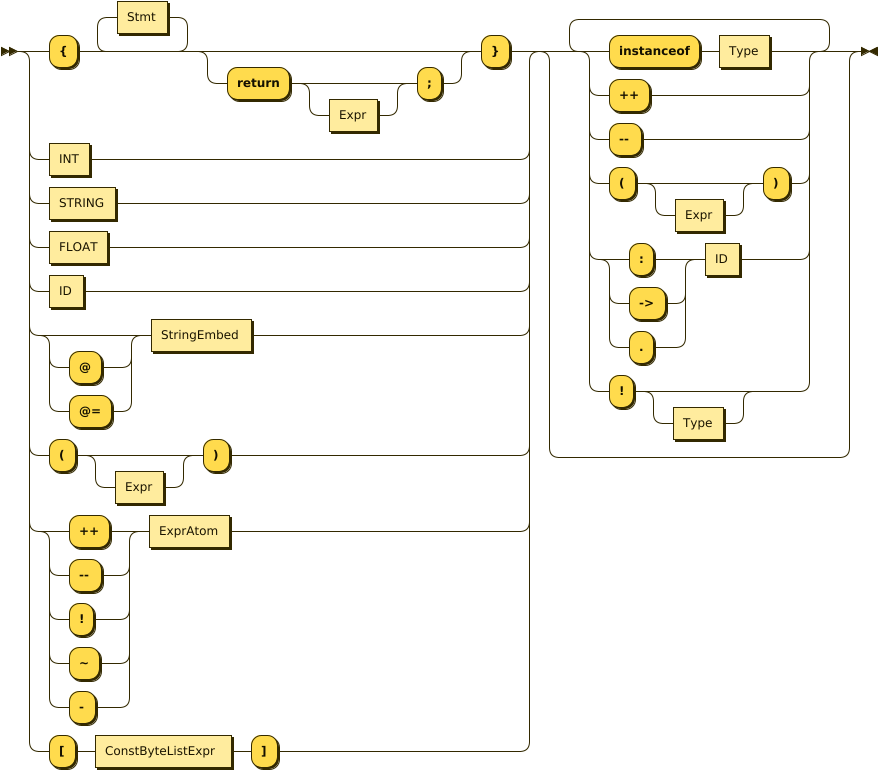
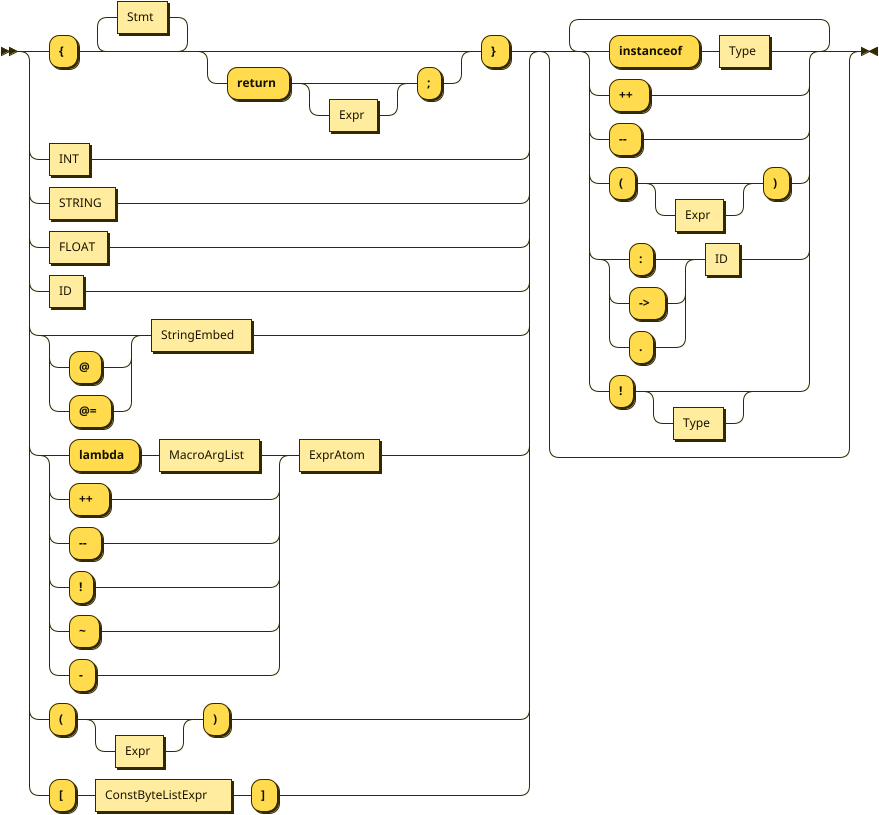
RAL: Clean up some lambda stuff, in particular parsing is now less weird

diff --git a/ral/src/main/java/rals/hcm/HCMStorage.java b/ral/src/main/java/rals/hcm/HCMStorage.java
@@ -49,7 +49,10 @@ public class HCMStorage {
 			HCMIntent hi = hoverIntents.get(id);
 			if (hi != null) {
 				Token former = backwardsTokenLink.get(tkn);
-				return hi.retrieve(former, tp, this).get(id.text);
+				Map<String, HoverData> map = hi.retrieve(former, tp, this);
+				if (map == null)
+					return null;
+				return map.get(id.text);
 			}
 			return null;
 		} else {
@@ -141,8 +144,11 @@ public class HCMStorage {
 			return intentSet.iterator().next().retrieve(refToken, spu, this);
 		// alright, accumulate
 		HashMap<String, HoverData> accumulated = new HashMap<>();
-		for (HCMIntent hi : intentSet)
-			accumulated.putAll(hi.retrieve(refToken, spu, this));
+		for (HCMIntent hi : intentSet) {
+			Map<String, HoverData> possible = hi.retrieve(refToken, spu, this);
+			if (possible != null)
+				accumulated.putAll(possible);
+		}
 		return accumulated;
 	}
 

diff --git a/ral/src/main/java/rals/tooling/LanguageServer.java b/ral/src/main/java/rals/tooling/LanguageServer.java
@@ -8,6 +8,8 @@ package rals.tooling;
 
 import java.io.File;
 import java.io.IOException;
+import java.io.PrintWriter;
+import java.io.StringWriter;
 import java.util.HashMap;
 import java.util.HashSet;
 import java.util.LinkedList;
@@ -198,7 +200,9 @@ public class LanguageServer implements ILSPCore {
 							hoverText = hd.text;
 					}
 				} catch (Exception ex) {
-					hoverText = ex.toString();
+					StringWriter sw = new StringWriter();
+					ex.printStackTrace(new PrintWriter(sw));
+					hoverText = sw.toString();
 				}
 				// Rest can be done here
 				if (hoverText != null) {

diff --git a/ral/src/main/java/rals/parser/ParserExpr.java b/ral/src/main/java/rals/parser/ParserExpr.java
@@ -257,7 +257,10 @@ public class ParserExpr {
 			return new RALStmtExpr(stmt, ret);
 		} else if (tkn.isKeyword("lambda")) {
 			MacroArg[] args = Parser.parseArgList(ifc, false);
-			RALExprUR expr = parseExpr(ifc, true);
+			// only parse a full atom, otherwise args after the lambda get eaten
+			RALExprUR expr = parseExprFullAtomOrNull(ifc);
+			if (expr == null)
+				throw new RuntimeException("lambda at " + tkn.lineNumber + " has no expression");
 			SrcRange range = tkn.extent.expand(lx.genLN());
 			return new RALLambda(range, args, expr);
 		} else if (tkn.isKeyword("(")) {

diff --git a/ral/src/main/java/rals/expr/RALCall.java b/ral/src/main/java/rals/expr/RALCall.java
@@ -43,7 +43,7 @@ public class RALCall implements RALExprUR {
 	public static RALExprSlice makeResolved(RALExprSlice base, RALExprSlice paramR, ScopeContext context) {
 		RALCallable rc = base.getCallable(0);
 		if (rc == null)
-			throw new RuntimeException("Unable to actually get RALCallable! Could be out of scope: " + base);
+			throw new RuntimeException("Unable to actually get RALCallable from " + base + ". You are probably trying to use a lambda in an unsupported manner (i.e. returning it from a macro, casting it via 'any').");
 		return rc.instance(paramR, context);
 	}
 }

diff --git a/ral/src/main/java/rals/hcm/ActualHCMRecorder.java b/ral/src/main/java/rals/hcm/ActualHCMRecorder.java
@@ -84,6 +84,9 @@ public class ActualHCMRecorder implements IHCMRecorder {
 
 	@Override
 	public void addCompletionRelIntentToNextToken(HCMIntent intent, boolean autoHover, RALExprUR... params) {
+		// This causes weird issues elsewhere, disallow it
+		if (intent == null)
+			throw new NullPointerException("Completion intent should never be null");
 		// always do this, just in case.
 		if (autoHover) {
 			autoHoverHolding = intent;

diff --git a/ral/src/main/java/rals/hcm/HCMIntent.java b/ral/src/main/java/rals/hcm/HCMIntent.java
@@ -27,7 +27,7 @@ public abstract class HCMIntent {
 	}
 
 	/**
-	 * Retrieves a map.
+	 * Retrieves a map, or null if some kind of error occurs.
 	 * DO NOT WRITE TO THIS MAP.
 	 * The token given is the key in intentsOnNextToken, AND MAY BE NULL.
 	 * The position given is the actual position of the cursor.

diff --git a/ral/src/main/java/rals/code/Macro.java b/ral/src/main/java/rals/code/Macro.java
@@ -236,7 +236,7 @@ public class Macro implements RALCallable.Global {
 
 		@Override
 		public String toString() {
-			return "macro arg copier of " + macroName;
+			return "macro wrapper of " + macroName;
 		}
 	}
 }

diff --git a/ral/src/main/java/rals/expr/RALStmtExpr.java b/ral/src/main/java/rals/expr/RALStmtExpr.java
@@ -98,6 +98,7 @@ public class RALStmtExpr implements RALExprUR {
 
 		@Override
 		protected RALCallable getCallableInner(int index) {
+			// Denied so that lambdas don't escape scope.
 			return null;
 		}
 	}
